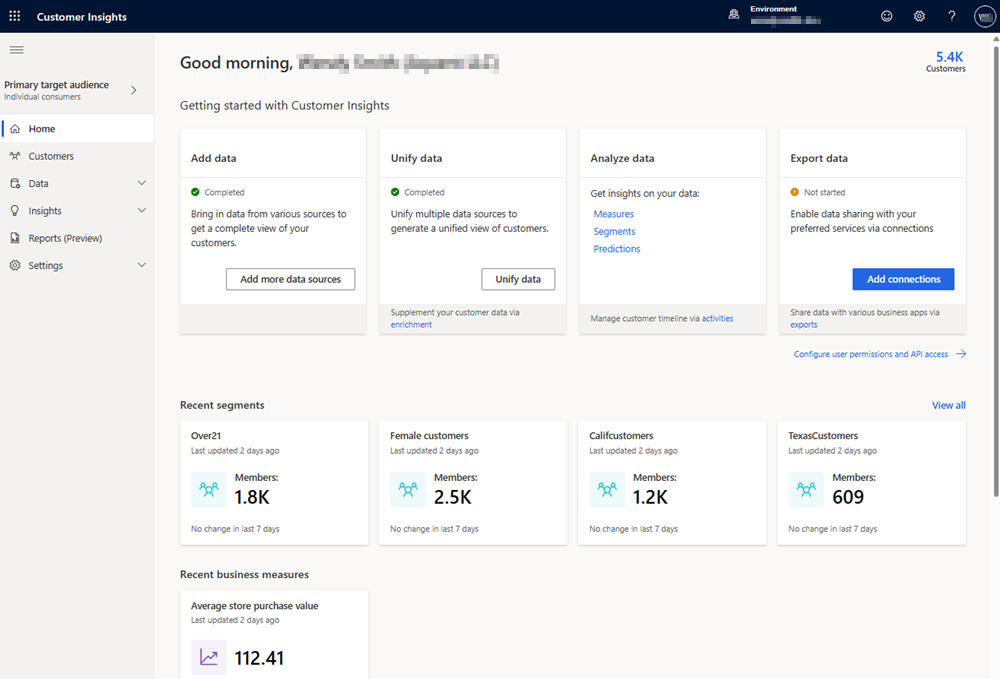
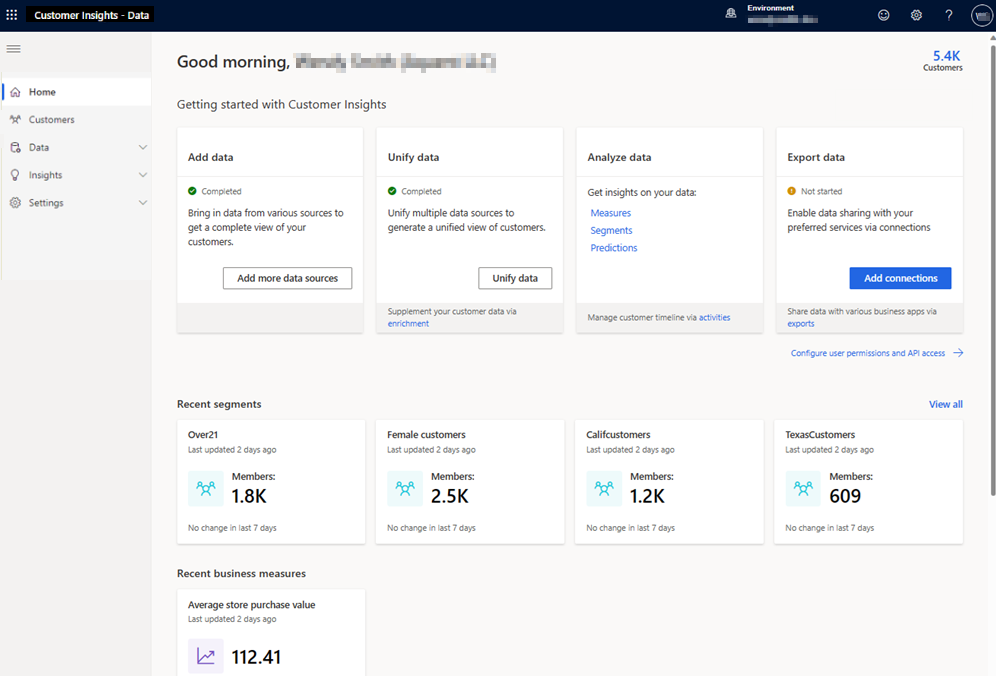
Screen updates

diff --git a/ci-docs/data/home.md b/ci-docs/data/home.md
@@ -51,7 +51,7 @@ This section contains a card to upload a single file and receive automatic insig
 
 This section contains cards that help you walk through the process of setting up your environment.
 
-1. The **Add data** card assists you with your data import. Customer Insights - Data supports [several options to bring in data about your customers](data-sources.md). Select **Add a data sources** to get started.
+1. The **Add data** card assists you with your data import. Customer Insights - Data supports [several options to bring in data about your customers](data-sources.md). Select **Add data sources** to get started.
 1. Once the initial data import successfully completes, you can use the **Unify data** card to harmonize the data and [create unified customer profiles](data-unification.md) from disparate sources. 
 1. With unified customer profiles in place, it's time to review the **Analyze data** options and get additional insights. Give it a try to create [business measures](measures.md) to track KPIs, [define segments](segments.md) to reach specific audiences, or [configure predictions](predictions.md) with the help of AI.
 1. Now that your customer data is imported, unified, and neatly structured, you use our [various export destinations](export-destinations.md) to take action on the data. Select **Add connections** to connect your favorite services. For example, export the data to Dynamics 365 Customer Insights - Journeys to create marketing campaigns and build customer journeys.

diff --git a/ci-docs/data/get-started.md b/ci-docs/data/get-started.md
@@ -31,7 +31,7 @@ Customer Insights - Data can help you build a deeper understanding of your custo
 
    :::image type="content" source="media/home-step-by-step.png" alt-text="Screenshot of the Getting Started screen with Step-by-step guide selected.":::
 
-1. Import your data. Choose between [Azure Data Lake Storage, including Common Data Model](connect-common-data-model.md), [Azure Synapse Analytics](connect-synapse.md), [Microsoft Dataverse](connect-dataverse.md), or  [Power Query connectors](connect-power-query.md).
+1. Import your data. Choose between [Azure Data Lake Storage, including Common Data Model](connect-common-data-model.md), [Azure Synapse Analytics](connect-synapse.md), [Microsoft Dataverse](connect-dataverse.md), [Delta tables in Azure Data Lake](connect-delta-lake.md) or  [Power Query connectors](connect-power-query.md).
 
 ## Step 3: Unify the data and set up relationships
 
